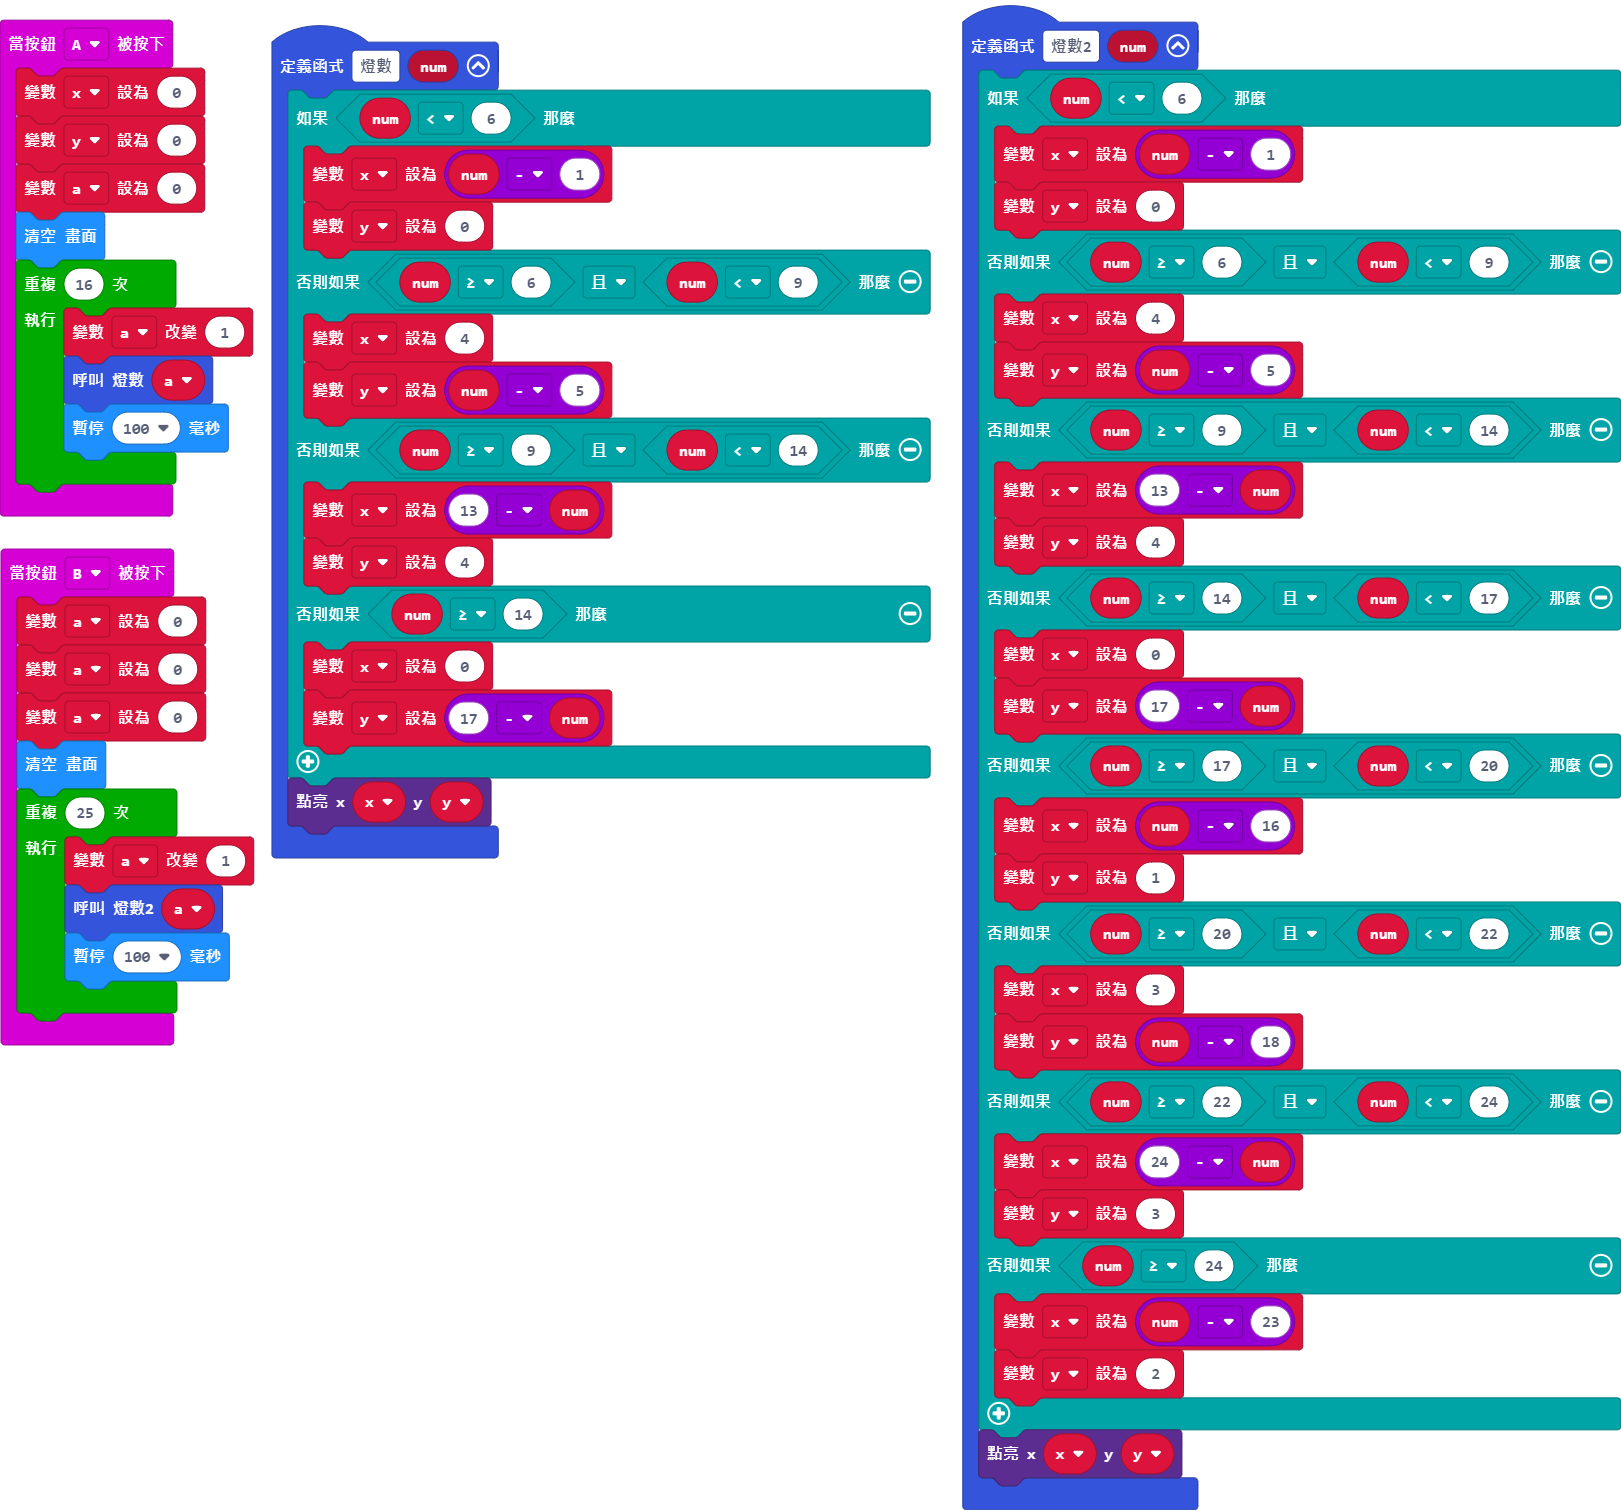
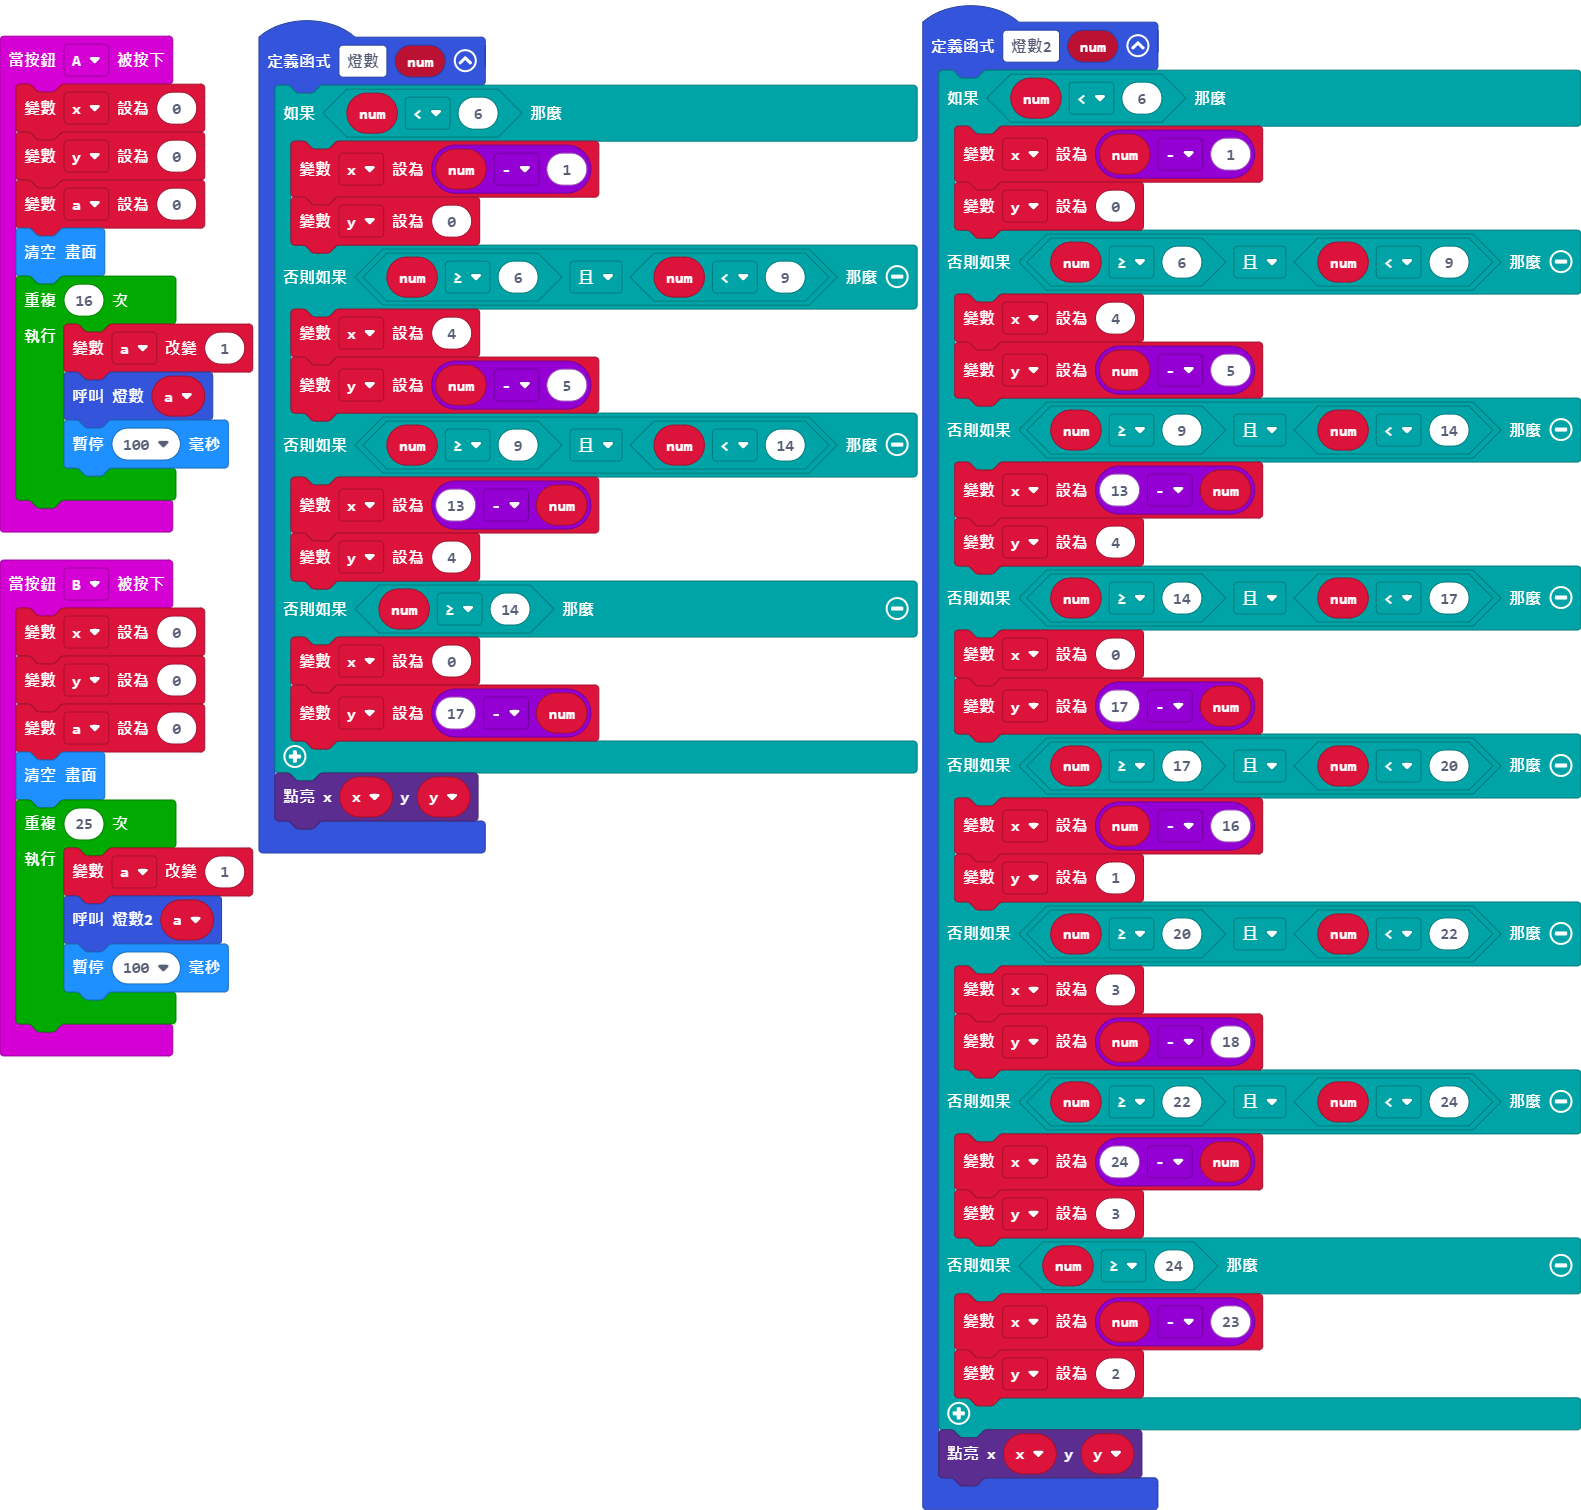
更新 main.blocks, main.ts

Changed region(s): [[0.0, 0.0, 0.9918, 1.0]]

diff --git a/main.ts b/main.ts
@@ -29,8 +29,8 @@ input.onButtonPressed(Button.A, function () {
     }
 })
 input.onButtonPressed(Button.B, function () {
-    a = 0
-    a = 0
+    x = 0
+    y = 0
     a = 0
     basic.clearScreen()
     for (let index = 0; index < 25; index++) {
